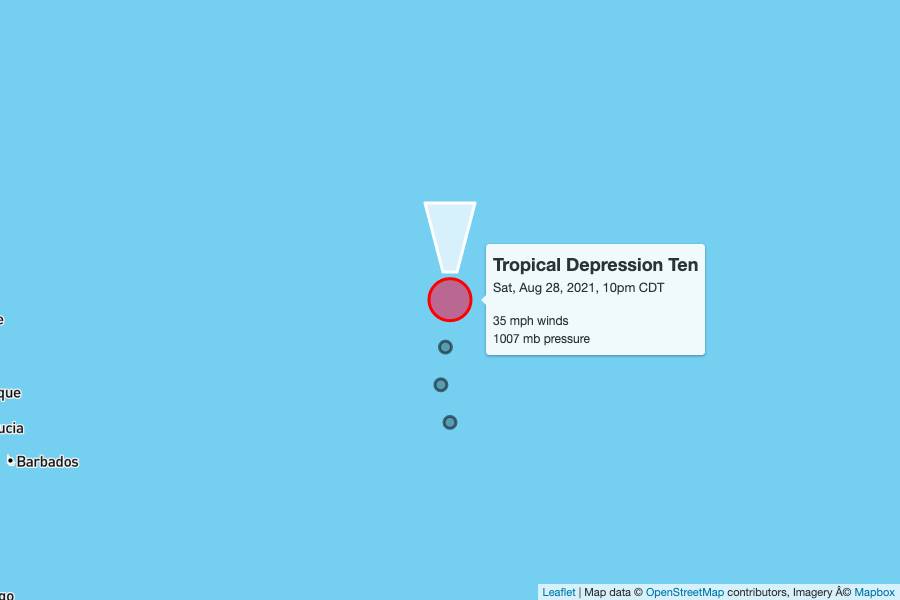
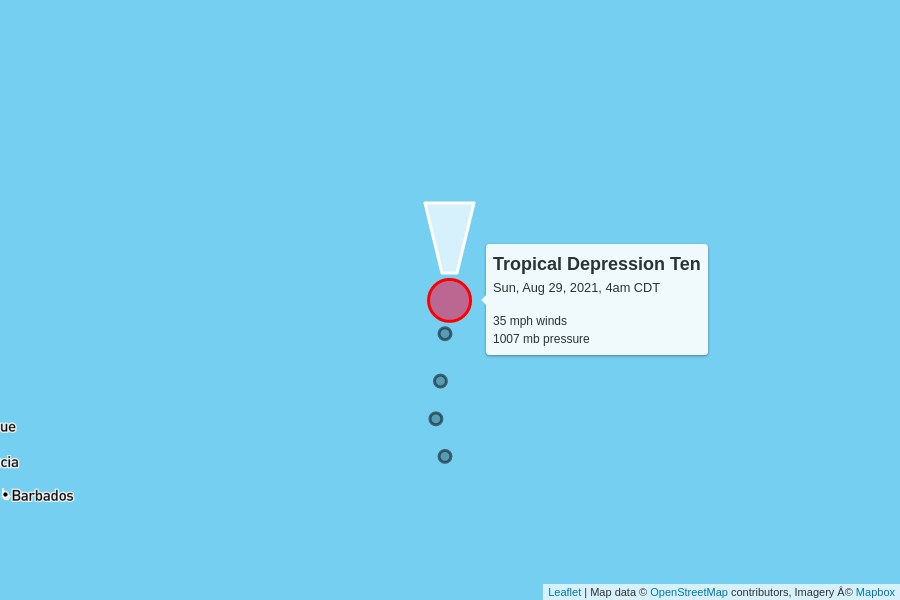
automatic update

diff --git a/docs/index.html b/docs/index.html
@@ -92,10 +92,10 @@
 
     <table>
       <tr>
-        <td colspan="6" class="storm category-3">
+        <td colspan="6" class="storm category-4">
           <h2>
-            Hurricane Ida - Category 3
-            <p class="updated">last updated <span data-time>2021-08-29T06:00:00.000Z</span></p>
+            Hurricane Ida - Category 4
+            <p class="updated">last updated <span data-time>2021-08-29T09:00:00.000Z</span></p>
           </h2>
         </td>
       </tr>
@@ -110,12 +110,12 @@
       </tr>
       <tr>
         <td class="spacer"></td>
-        <td>115 mph</td>
-        <td>955 mb</td>
+        <td>140 mph</td>
+        <td>946 mb</td>
         <td>
           15 mph to the northwest
           <br/>
-          <span style="display: inline-block; font-size: 1.5em; rotate: 320deg;">↑</span>
+          <span style="display: inline-block; font-size: 1.5em; rotate: 315deg;">↑</span>
         </td>
         <td><a href="https://raw.githubusercontent.com/mgwalker/atlantic-hurricanes/main/data/csv/AL092021.csv">AL092021.csv</a></td>
         <td><a href="https://www.nhc.noaa.gov/archive/2021/IDA.shtml?">NHC advisories</a></td>
@@ -132,7 +132,7 @@
         <td colspan="6" class="storm category-0">
           <h2>
             Tropical Depression Ten
-            <p class="updated">last updated <span data-time>2021-08-29T03:00:00.000Z</span></p>
+            <p class="updated">last updated <span data-time>2021-08-29T09:00:00.000Z</span></p>
           </h2>
         </td>
       </tr>
@@ -169,7 +169,7 @@
         <td colspan="6" class="storm category-0">
           <h2>
             Tropical Depression Eleven
-            <p class="updated">last updated <span data-time>2021-08-29T03:00:00.000Z</span></p>
+            <p class="updated">last updated <span data-time>2021-08-29T09:00:00.000Z</span></p>
           </h2>
         </td>
       </tr>
@@ -185,9 +185,9 @@
       <tr>
         <td class="spacer"></td>
         <td>35 mph</td>
-        <td>1010 mb</td>
+        <td>1009 mb</td>
         <td>
-          12 mph to the northeast
+          15 mph to the northeast
           <br/>
           <span style="display: inline-block; font-size: 1.5em; rotate: 50deg;">↑</span>
         </td>
